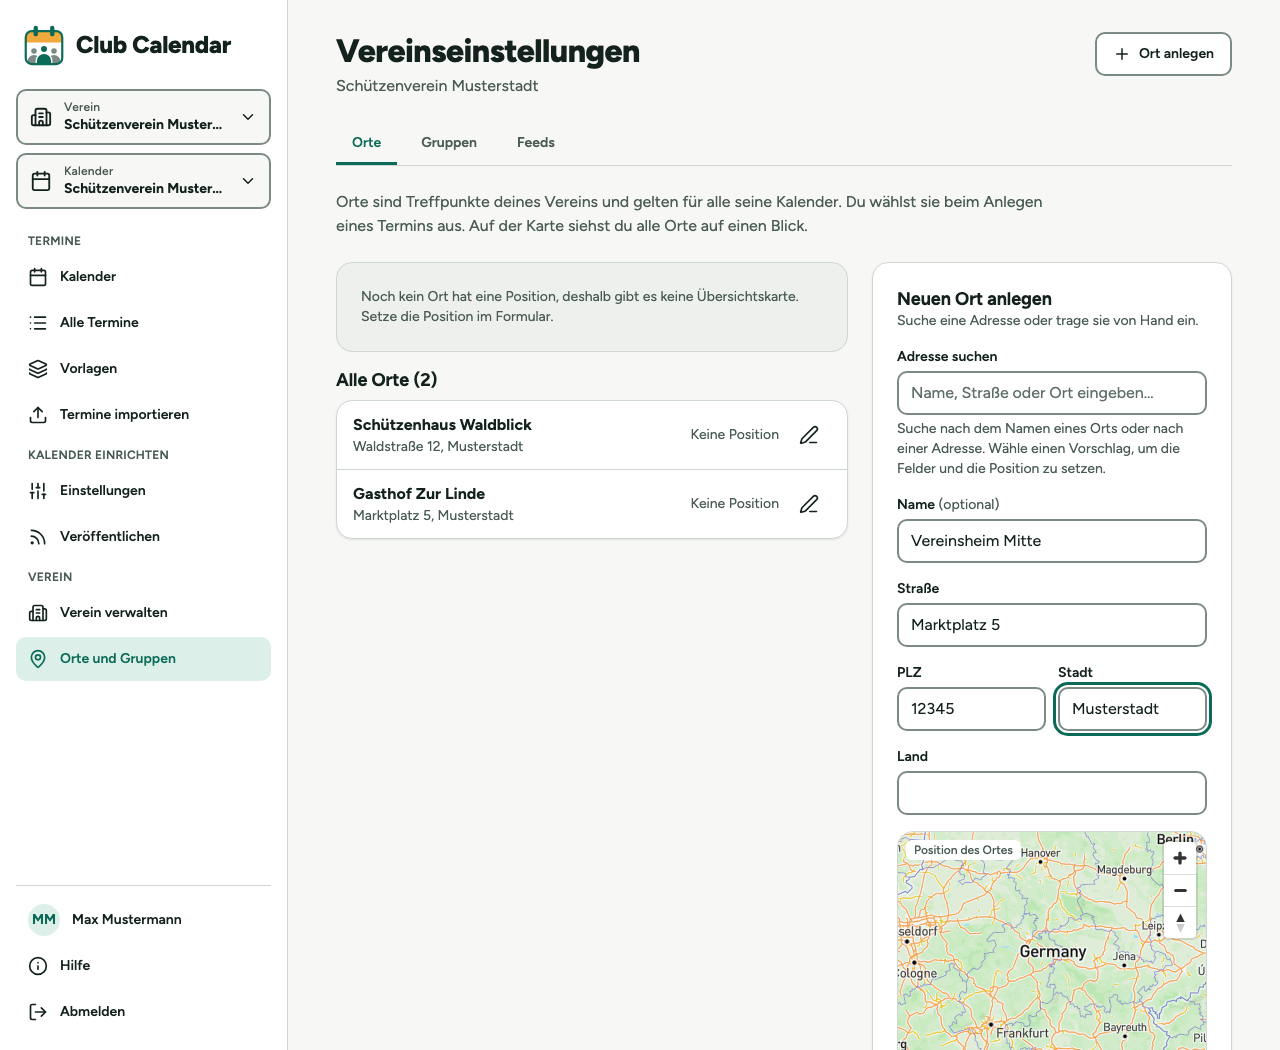
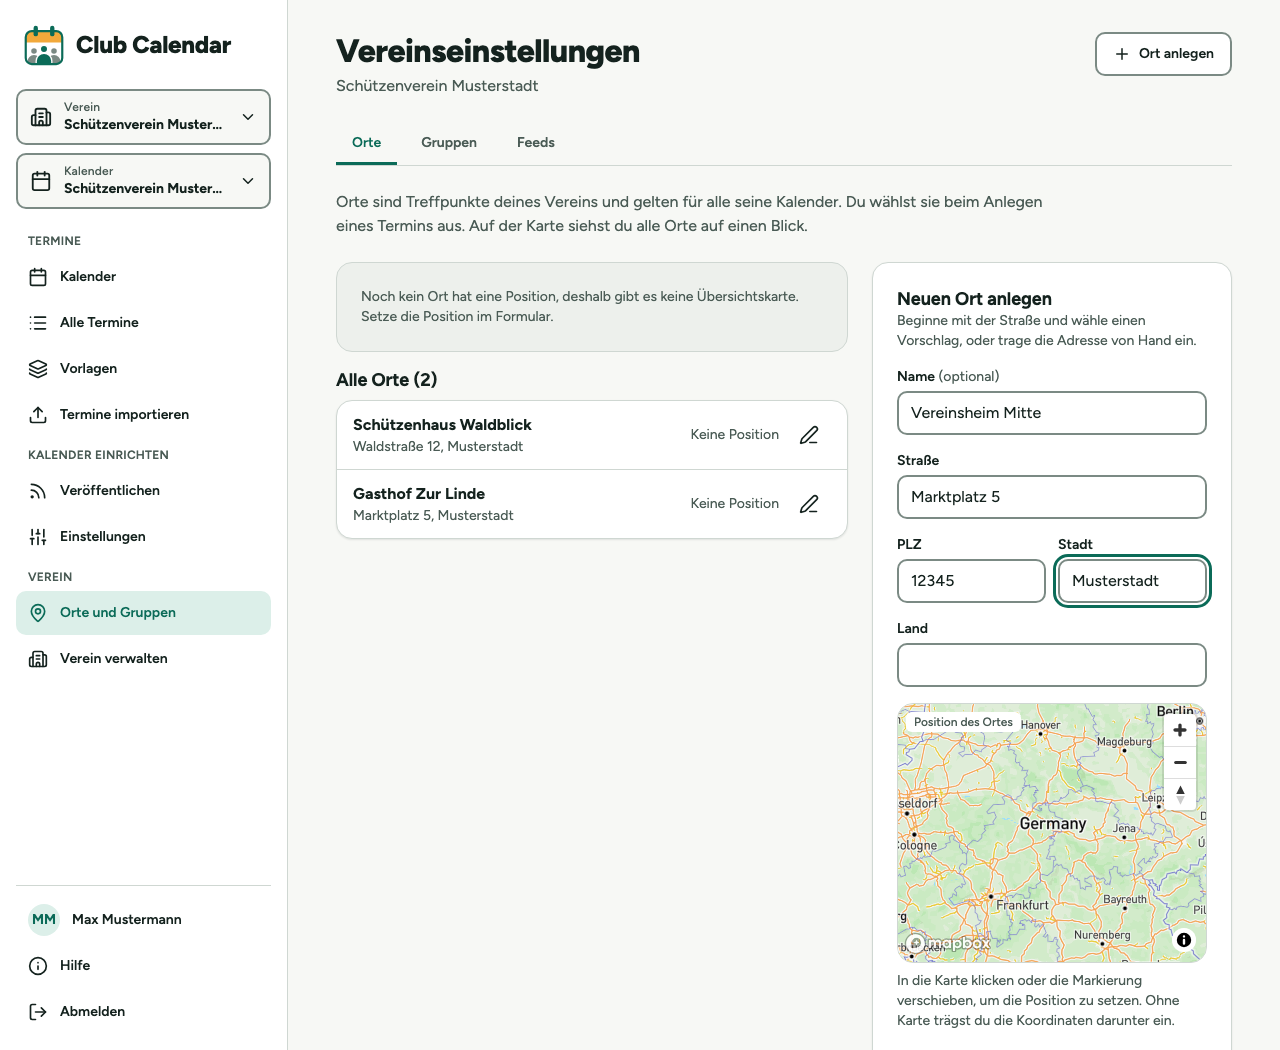
docs(help): locations form with autocompleting street field

Changed region(s): [[0.6875, 0.3048, 0.9688, 1.0], [0.0, 0.5486, 0.2188, 0.6705], [0.0312, 0.4571, 0.125, 0.5181]]

diff --git a/frontend/docs/de/30-organize/locations.md b/frontend/docs/de/30-organize/locations.md
@@ -19,13 +19,19 @@ In der Seitenleiste unter **Verein** den Punkt **Orte und Gruppen** öffnen, dor
 ## Ort anlegen
 
 1. Wähle **Ort anlegen**.
-2. Suche unter **Adresse suchen** nach einem Namen oder einer Adresse und wähle einen Vorschlag. Name, Adresse und Position werden ausgefüllt. Oder trage **Name**, **Straße**, **PLZ**, **Stadt** und **Land** von Hand ein.
+2. Trage den **Namen** ein und beginne im Feld **Straße** zu tippen (ab 2 Zeichen). Wähle einen Vorschlag: **Straße**, **PLZ**, **Stadt**, **Land** und die Position auf der Karte werden ausgefüllt, der Name bleibt unverändert. Du kannst alle Felder auch von Hand eintragen.
 3. Setze die Position optional: in die Karte klicken oder die Markierung verschieben. Ohne Karte nutzt du **Koordinaten von Hand eingeben** (Breitengrad und Längengrad).
 4. Wähle **Ort speichern**.
 
 Mindestens ein Name oder eine Straße ist nötig.
 
-![Formular „Neuen Ort anlegen“ mit Adresssuche und Karte](shot:locations-form)
+:::tip
+Verlässt du das Feld **Straße**, während **PLZ**, **Stadt** und **Land** noch leer sind, werden sie automatisch ergänzt, wenn die Adresse eindeutig ist. Bereits eingetragene Werte werden nie überschrieben.
+:::
+
+Gesucht werden nur Adressen, keine Sehenswürdigkeiten oder Lokale. Für ein Vereinsheim gibst du daher den Namen selbst ein und suchst die Straße.
+
+![Formular „Neuen Ort anlegen“ mit Straßenvorschlägen und Karte](shot:locations-form)
 
 ## Bearbeiten und löschen
 

diff --git a/frontend/docs/en/30-organize/locations.md b/frontend/docs/en/30-organize/locations.md
@@ -19,13 +19,19 @@ In the sidebar under **Club**, open **Places and audiences**, then the **Locatio
 ## Create a location
 
 1. Choose **Create place**.
-2. Under **Search address**, search for a name or address and pick a suggestion. Name, address and position are filled in. Or enter **Name**, **Street**, **ZIP**, **City** and **Country** by hand.
+2. Enter the **Name** and start typing in the **Street** field (from 2 characters). Pick a suggestion: **Street**, **ZIP**, **City**, **Country** and the map position are filled in, the name stays as it is. You can also enter all fields by hand.
 3. Optionally set the position: click the map or drag the marker. Without the map, use **Enter coordinates by hand** (latitude and longitude).
 4. Choose **Save place**.
 
 At least a name or a street is required.
 
-![The "Create new place" form with address search and map](shot:locations-form)
+:::tip
+If you leave the **Street** field while **ZIP**, **City** and **Country** are still empty, they are filled in automatically when the address is unambiguous. Values you already entered are never overwritten.
+:::
+
+Only addresses are searched, not points of interest or venues. For a clubhouse, enter the name yourself and search for the street.
+
+![The "Create new place" form with street suggestions and map](shot:locations-form)
 
 ## Edit and delete
 
